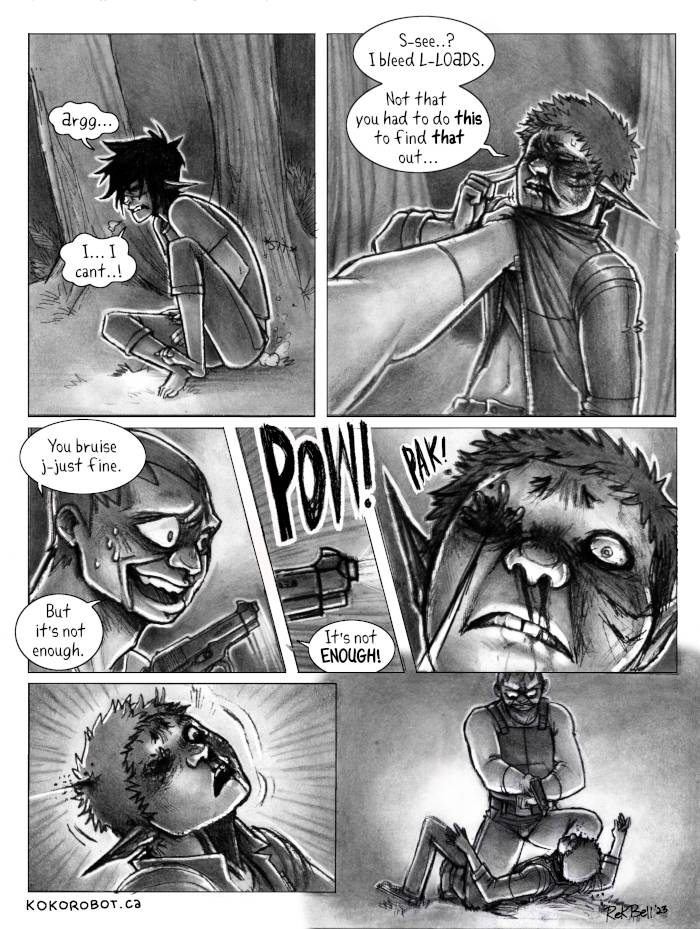
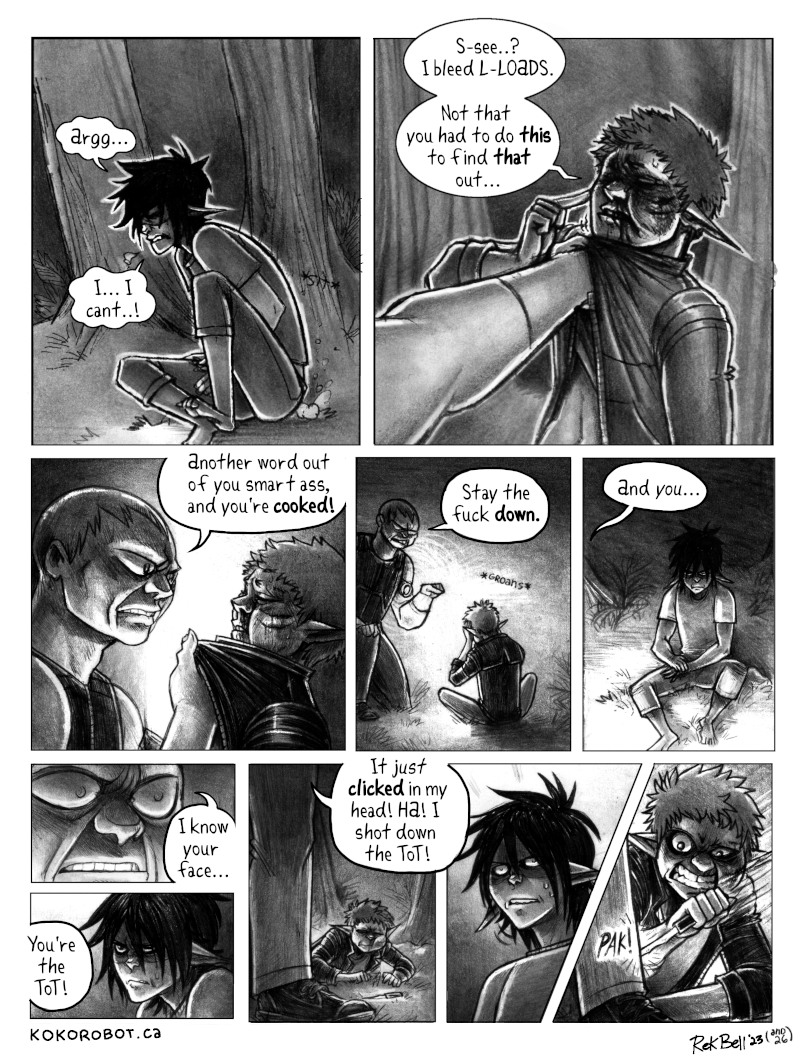
*

diff --git a/site/index.html b/site/index.html
@@ -17,5 +17,5 @@
 
 <ul class='col2 capital'><li><a href='2013dec31.html'>2013dec31</a></li><li><a href='2014dec31.html'>2014dec31</a></li><li><a href='2020dec31.html'>2020dec31</a></li><li><a href='2021dec31.html'>2021dec31</a></li><li><a href='2022dec31.html'>2022dec31</a></li><li><a href='2023dec31.html'>2023dec31</a></li><li><a href='2024dec31.html'>2024dec31</a></li><li><a href='2025dec31.html'>2025dec31</a></li><li><a href='a_good_friction_hitch.html'>a good friction hitch</a></li><li><a href='about.html'>about</a></li><li><a href='adeka.html'>adeka</a></li><li><a href='aftermath.html'>aftermath</a></li><li><a href='all_pages.html'>all pages</a></li><li><a href='aodan.html'>aodan</a></li><li><a href='apple_carving.html'>apple carving</a></li><li><a href='asl.html'>asl</a></li><li><a href='bike.html'>bike</a></li><li><a href='biosonic.html'>biosonic</a></li><li><a href='birds.html'>birds</a></li><li><a href='blog.html'>blog</a></li><li><a href='bookmarks.html'>bookmarks</a></li><li><a href='books.html'>books</a></li><li><a href='books_for_children.html'>books for children</a></li><li><a href='bulle.html'>bulle</a></li><li><a href='busy_doing_nothing.html'>busy doing nothing</a></li><li><a href='busy_water.html'>busy water</a></li><li><a href='cables_and_harness_splices.html'>cables and harness splices</a></li><li><a href='cartooning_avocation.html'>cartooning avocation</a></li><li><a href='cat_clock.html'>cat clock</a></li><li><a href='catpot.html'>catpot</a></li><li><a href='cee.html'>cee</a></li><li><a href='chase.html'>chase</a></li><li><a href='circa.html'>circa</a></li><li><a href='commission.html'>commission</a></li><li><a href='concat.html'>concat</a></li><li><a href='conversion.html'>conversion</a></li><li><a href='couple.html'>couple</a></li><li><a href='cv.html'>cv</a></li><li><a href='cv_en.html'>cv en</a></li><li><a href='defensive_boating.html'>defensive boating</a></li><li><a href='depressive_realism.html'>depressive realism</a></li><li><a href='devine.html'>devine</a></li><li><a href='disengaging.html'>disengaging</a></li><li><a href='diy_watermaker.html'>diy watermaker</a></li><li><a href='donsol.html'>donsol</a></li><li><a href='drownspire.html'>drownspire</a></li><li><a href='fan_art.html'>fan art</a></li><li><a href='fasciation.html'>fasciation</a></li><li><a href='favorites.html'>favorites</a></li><li><a href='films_and_series.html'>films and series</a></li><li><a href='finic.html'>finic</a></li><li><a href='finn.html'>finn</a></li><li><a href='five_hole_pamphlet_stitch.html'>five hole pamphlet stitch</a></li><li><a href='folding_zine.html'>folding zine</a></li><li><a href='fsf_talk.html'>fsf talk</a></li><li><a href='fungi.html'>fungi</a></li><li><a href='games.html'>games</a></li><li><a href='ginger_roots.html'>ginger roots</a></li><li><a href='go_north.html'>go north</a></li><li><a href='goblins.html'>goblins</a></li><li><a href='good_enough_arithmetic.html'>good enough arithmetic</a></li><li><a href='grimgrains.html'>grimgrains</a></li><li><a href='gunwale_and_hull_cushioning.html'>gunwale and hull cushioning</a></li><li><a href='hakum.html'>hakum</a></li><li><a href='hakum_archive.html'>hakum archive</a></li><li><a href='hand_signals.html'>hand signals</a></li><li><a href='hand_talk.html'>hand talk</a></li><li><a href='happynothappy.html'>happynothappy</a></li><li><a href='hitobito.html'>hitobito</a></li><li><a href='hobby.html'>hobby</a></li><li><a href='home.html'>home</a></li><li><a href='how-to.html'>how-to</a></li><li><a href='hundredrabbits.html'>hundredrabbits</a></li><li><a href='ilken.html'>ilken</a></li><li><a href='illustration.html'>illustration</a></li><li><a href='image_optimization.html'>image optimization</a></li><li><a href='incredible_death.html'>incredible death</a></li><li><a href='index.html'>index</a></li><li><a href='japan.html'>japan</a></li><li><a href='kaizah.html'>kaizah</a></li><li><a href='kanji_study.html'>kanji study</a></li><li><a href='kayak.html'>kayak</a></li><li><a href='keeping_teeth_healthy.html'>keeping teeth healthy</a></li><li><a href='kid_rek.html'>kid rek</a></li><li><a href='knots.html'>knots</a></li><li><a href='leaner_web.html'>leaner web</a></li><li><a href='lepore_express_line.html'>lepore express line</a></li><li><a href='licenses.html'>licenses</a></li><li><a href='links.html'>links</a></li><li><a href='liskar.html'>liskar</a></li><li><a href='livres_denfants.html'>livres denfants</a></li><li><a href='livres_denfants_en.html'>livres denfants en</a></li><li><a href='making_a_font.html'>making a font</a></li><li><a href='malisse.html'>malisse</a></li><li><a href='markl.html'>markl</a></li><li><a href='mascots_and_logos.html'>mascots and logos</a></li><li><a href='mascots_and_logos.htmll'>mascots and logos</a></li><li><a href='meds.html'>meds</a></li><li><a href='medussas_four.html'>medussas four</a></li><li><a href='merure.html'>merure</a></li><li><a href='merveilles.html'>merveilles</a></li><li><a href='meta.header.html'>meta.header</a></li><li><a href='meta.html'>meta</a></li><li><a href='mindbird.html'>mindbird</a></li><li><a href='misc.html'>misc</a></li><li><a href='misc_commissions.html'>misc commissions</a></li><li><a href='modern_standard_arabic.html'>modern standard arabic</a></li><li><a href='new_physical.html'>new physical</a></li><li><a href='night_terror.html'>night terror</a></li><li><a href='niju.html'>niju</a></li><li><a href='no_alcohol.html'>no alcohol</a></li><li><a href='no_bears_none.html'>no bears none</a></li><li><a href='notes.html'>notes</a></li><li><a href='obi.html'>obi</a></li><li><a href='offline_internet.html'>offline internet</a></li><li><a href='old_art.html'>old art</a></li><li><a href='oquonie.html'>oquonie</a></li><li><a href='pandanus.html'>pandanus</a></li><li><a href='pandoc.html'>pandoc</a></li><li><a href='pandoc_install.html'>pandoc install</a></li><li><a href='paradise.html'>paradise</a></li><li><a href='pcbc.html'>pcbc</a></li><li><a href='physical.html'>physical</a></li><li><a href='pics.html'>pics</a></li><li><a href='pino.html'>pino</a></li><li><a href='pixel_art_gimp.html'>pixel art gimp</a></li><li><a href='politics.html'>politics</a></li><li><a href='politics_and_the_english_language.html'>politics and the english language</a></li><li><a href='polycat.html'>polycat</a></li><li><a href='press.html'>press</a></li><li><a href='projects.html'>projects</a></li><li><a href='publications.html'>publications</a></li><li><a href='punk_rabbits.html'>punk rabbits</a></li><li><a href='quotes.html'>quotes</a></li><li><a href='rabbit_waves.html'>rabbit waves</a></li><li><a href='radio.html'>radio</a></li><li><a href='recharge.html'>recharge</a></li><li><a href='rek.html'>rek</a></li><li><a href='remove_ai.html'>remove ai</a></li><li><a href='resume.html'>resume</a></li><li><a href='reunited.html'>reunited</a></li><li><a href='reusable_pads.html'>reusable pads</a></li><li><a href='rope_mats.html'>rope mats</a></li><li><a href='ruler_of_the_taiga.html'>ruler of the taiga</a></li><li><a href='sabotage_study.html'>sabotage study</a></li><li><a href='self_defense.html'>self defense</a></li><li><a href='sewing.html'>sewing</a></li><li><a href='shiba_killy.html'>shiba killy</a></li><li><a href='sketchbook.html'>sketchbook</a></li><li><a href='smile.html'>smile</a></li><li><a href='social_psychology.html'>social psychology</a></li><li><a href='software_nomad.html'>software nomad</a></li><li><a href='spellbook.html'>spellbook</a></li><li><a href='spines_and_pincers.html'>spines and pincers</a></li><li><a href='sprite.html'>sprite</a></li><li><a href='store.html'>store</a></li><li><a href='stories.html'>stories</a></li><li><a href='sy_and_kim.html'>sy and kim</a></li><li><a href='tangled.html'>tangled</a></li><li><a href='tdc.html'>tdc</a></li><li><a href='terat.html'>terat</a></li><li><a href='the_black_box_theory.html'>the black box theory</a></li><li><a href='the_event.html'>the event</a></li><li><a href='the_shock.html'>the shock</a></li><li><a href='the_tot.html'>the tot</a></li><li><a href='thousand_rooms.html'>thousand rooms</a></li><li><a href='tools.html'>tools</a></li><li><a href='tote.html'>tote</a></li><li><a href='tracking.html'>tracking</a></li><li><a href='travel.html'>travel</a></li><li><a href='uno.html'>uno</a></li><li><a href='update_log.html'>update log</a></li><li><a href='using_a_scanner_under_linux.html'>using a scanner under linux</a></li><li><a href='uxn.html'>uxn</a></li><li><a href='uxn_asl.html'>uxn asl</a></li><li><a href='vancouver_island_mushrooms.html'>vancouver island mushrooms</a></li><li><a href='vendredi_13.html'>vendredi 13</a></li><li><a href='viktor.html'>viktor</a></li><li><a href='vincent.html'>vincent</a></li><li><a href='water_bloat.html'>water bloat</a></li><li><a href='whodidwhat.html'>whodidwhat</a></li><li><a href='why_i_write.html'>why i write</a></li><li><a href='wiktopher.html'>wiktopher</a></li><li><a href='wunderland_rabbits.html'>wunderland rabbits</a></li><li><a href='yearly_review.html'>yearly review</a></li><li><a href='yufo.html'>yufo</a></li></ul>
 
-</main><footer><span style='float:right'>Edited on Thu Aug 20 16:49:09 2026
+</main><footer><span style='float:right'>Edited on Fri Sep  4 11:27:12 2026
  <a href='https://github.com/rekkabell/kokorobot/edit/main/src/inc/index.htm'>[edit]</a><br/></span><b><a href='../site/rek.html'>Rek Bell</a></b> © 2011-2026 <a href='https://github.com/rekkabell/kokorobot/blob/main/LICENSE' target='_blank'> [BY-NC-SA 4.0]</a> <a href='https://merveilles.town/@rek'><img src='../media/interface/links/merveilles.png' height='25'></a> <a href='http://webring.xxiivv.com/#random'><img src='../media/interface/links/rotonde.png' height='25'></a> <map name='noaimini8'><area href='https://baccyflap.com/noai' shape='rect' coords='20,0,67,30' target='_blank'><area href='https://baccyflap.com/noai/?prv&s=kok' target='_top' shape='rect' coords='0,7,18,23' alt='previous' title='previous'><area href='https://baccyflap.com/noai/?nxt&s=kok' target='_top' shape='rect' coords='69,7,87,23' alt='next' title='next'></map><img src='https://baccyflap.com/noai/miniwidget8.gif' style='filter: grayscale(100%)' height='28' usemap='#noaimini8'></footer></body></html>

diff --git a/site/night_terror.html b/site/night_terror.html
@@ -32,6 +32,7 @@
 <img src='../media/content/hakum_nt_p11.jpg' loading='lazy'>
 <img src='../media/content/hakum_nt_p12.jpg' loading='lazy'>
 <img src='../media/content/hakum_nt_p13.jpg' loading='lazy'>
+<img src='../media/content/hakum_nt_p13_3.jpg' loading='lazy'>
 <img src='../media/content/hakum_nt_p14.jpg' loading='lazy'>
 <img src='../media/content/hakum_nt_p15.jpg' loading='lazy'>
 <img src='../media/content/hakum_nt_p16.jpg' loading='lazy'>
@@ -43,5 +44,5 @@
 
 <p>Return to <a href='hakum.html' class='local'>hakum</a> project.</p>
 
-</main><footer><span style='float:right'>Edited on Wed Jul  1 08:58:16 2026
+</main><footer><span style='float:right'>Edited on Fri Sep  4 11:22:47 2026
  <a href='https://github.com/rekkabell/kokorobot/edit/main/src/inc/night_terror.htm'>[edit]</a><br/></span><b><a href='../site/rek.html'>Rek Bell</a></b> © 2011-2026 <a href='https://github.com/rekkabell/kokorobot/blob/main/LICENSE' target='_blank'> [BY-NC-SA 4.0]</a> <a href='https://merveilles.town/@rek'><img src='../media/interface/links/merveilles.png' height='25'></a> <a href='http://webring.xxiivv.com/#random'><img src='../media/interface/links/rotonde.png' height='25'></a> <map name='noaimini8'><area href='https://baccyflap.com/noai' shape='rect' coords='20,0,67,30' target='_blank'><area href='https://baccyflap.com/noai/?prv&s=kok' target='_top' shape='rect' coords='0,7,18,23' alt='previous' title='previous'><area href='https://baccyflap.com/noai/?nxt&s=kok' target='_top' shape='rect' coords='69,7,87,23' alt='next' title='next'></map><img src='https://baccyflap.com/noai/miniwidget8.gif' style='filter: grayscale(100%)' height='28' usemap='#noaimini8'></footer></body></html>

diff --git a/site/birds.html b/site/birds.html
@@ -150,5 +150,5 @@
 
 <p>Back to <a href='#top'>top</a>.</p>
 
-</main><footer><span style='float:right'>Edited on Thu Aug 20 16:49:04 2026
+</main><footer><span style='float:right'>Edited on Thu Aug 20 17:04:32 2026
  <a href='https://github.com/rekkabell/kokorobot/edit/main/src/inc/birds.htm'>[edit]</a><br/></span><b><a href='../site/rek.html'>Rek Bell</a></b> © 2011-2026 <a href='https://github.com/rekkabell/kokorobot/blob/main/LICENSE' target='_blank'> [BY-NC-SA 4.0]</a> <a href='https://merveilles.town/@rek'><img src='../media/interface/links/merveilles.png' height='25'></a> <a href='http://webring.xxiivv.com/#random'><img src='../media/interface/links/rotonde.png' height='25'></a> <map name='noaimini8'><area href='https://baccyflap.com/noai' shape='rect' coords='20,0,67,30' target='_blank'><area href='https://baccyflap.com/noai/?prv&s=kok' target='_top' shape='rect' coords='0,7,18,23' alt='previous' title='previous'><area href='https://baccyflap.com/noai/?nxt&s=kok' target='_top' shape='rect' coords='69,7,87,23' alt='next' title='next'></map><img src='https://baccyflap.com/noai/miniwidget8.gif' style='filter: grayscale(100%)' height='28' usemap='#noaimini8'></footer></body></html>

diff --git a/site/pics.html b/site/pics.html
@@ -237,5 +237,5 @@
 
 
 
-</main><footer><span style='float:right'>Edited on Thu Aug 20 16:49:09 2026
+</main><footer><span style='float:right'>Edited on Fri Sep  4 11:27:12 2026
  <a href='https://github.com/rekkabell/kokorobot/edit/main/src/inc/pics.htm'>[edit]</a><br/></span><b><a href='../site/rek.html'>Rek Bell</a></b> © 2011-2026 <a href='https://github.com/rekkabell/kokorobot/blob/main/LICENSE' target='_blank'> [BY-NC-SA 4.0]</a> <a href='https://merveilles.town/@rek'><img src='../media/interface/links/merveilles.png' height='25'></a> <a href='http://webring.xxiivv.com/#random'><img src='../media/interface/links/rotonde.png' height='25'></a> <map name='noaimini8'><area href='https://baccyflap.com/noai' shape='rect' coords='20,0,67,30' target='_blank'><area href='https://baccyflap.com/noai/?prv&s=kok' target='_top' shape='rect' coords='0,7,18,23' alt='previous' title='previous'><area href='https://baccyflap.com/noai/?nxt&s=kok' target='_top' shape='rect' coords='69,7,87,23' alt='next' title='next'></map><img src='https://baccyflap.com/noai/miniwidget8.gif' style='filter: grayscale(100%)' height='28' usemap='#noaimini8'></footer></body></html>

diff --git a/src/inc/night_terror.htm b/src/inc/night_terror.htm
@@ -15,6 +15,7 @@
 <img src='../media/content/hakum_nt_p11.jpg' loading='lazy'>
 <img src='../media/content/hakum_nt_p12.jpg' loading='lazy'>
 <img src='../media/content/hakum_nt_p13.jpg' loading='lazy'>
+<img src='../media/content/hakum_nt_p13_3.jpg' loading='lazy'>
 <img src='../media/content/hakum_nt_p14.jpg' loading='lazy'>
 <img src='../media/content/hakum_nt_p15.jpg' loading='lazy'>
 <img src='../media/content/hakum_nt_p16.jpg' loading='lazy'>
